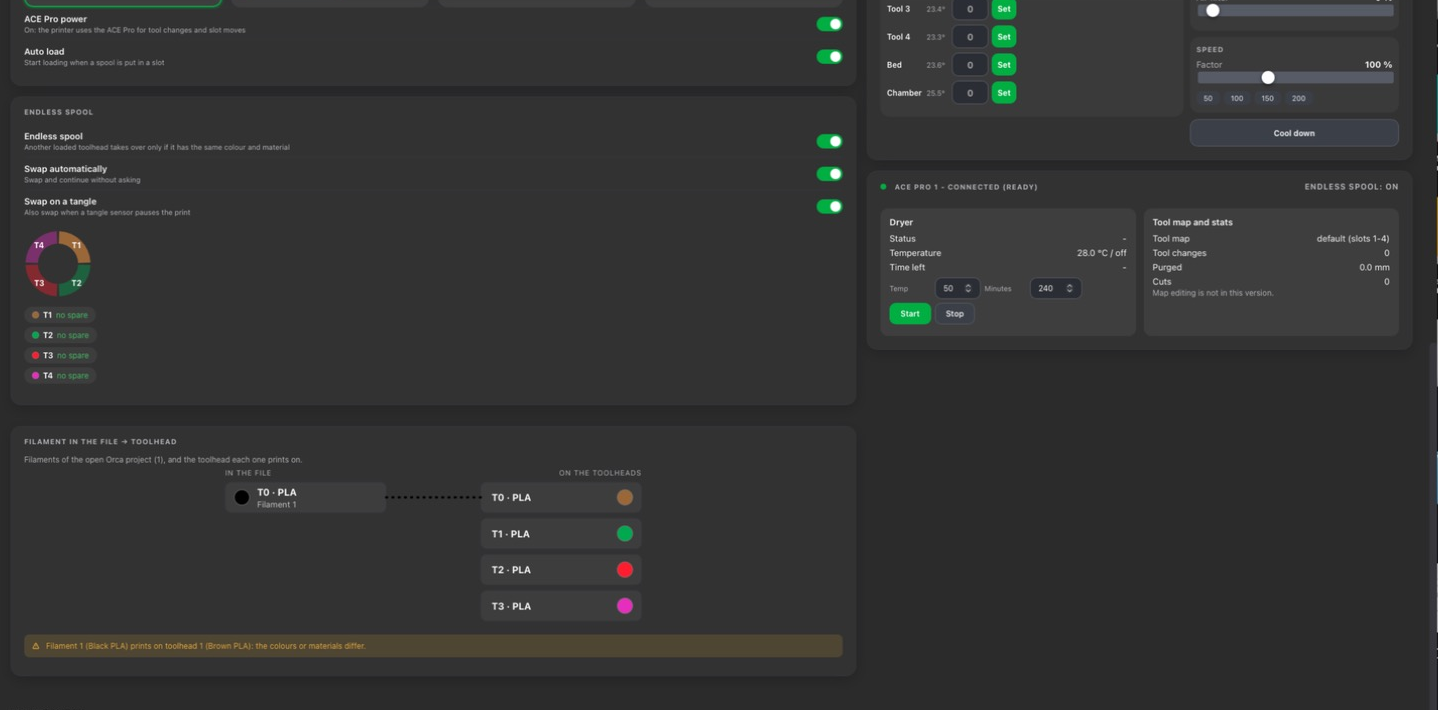
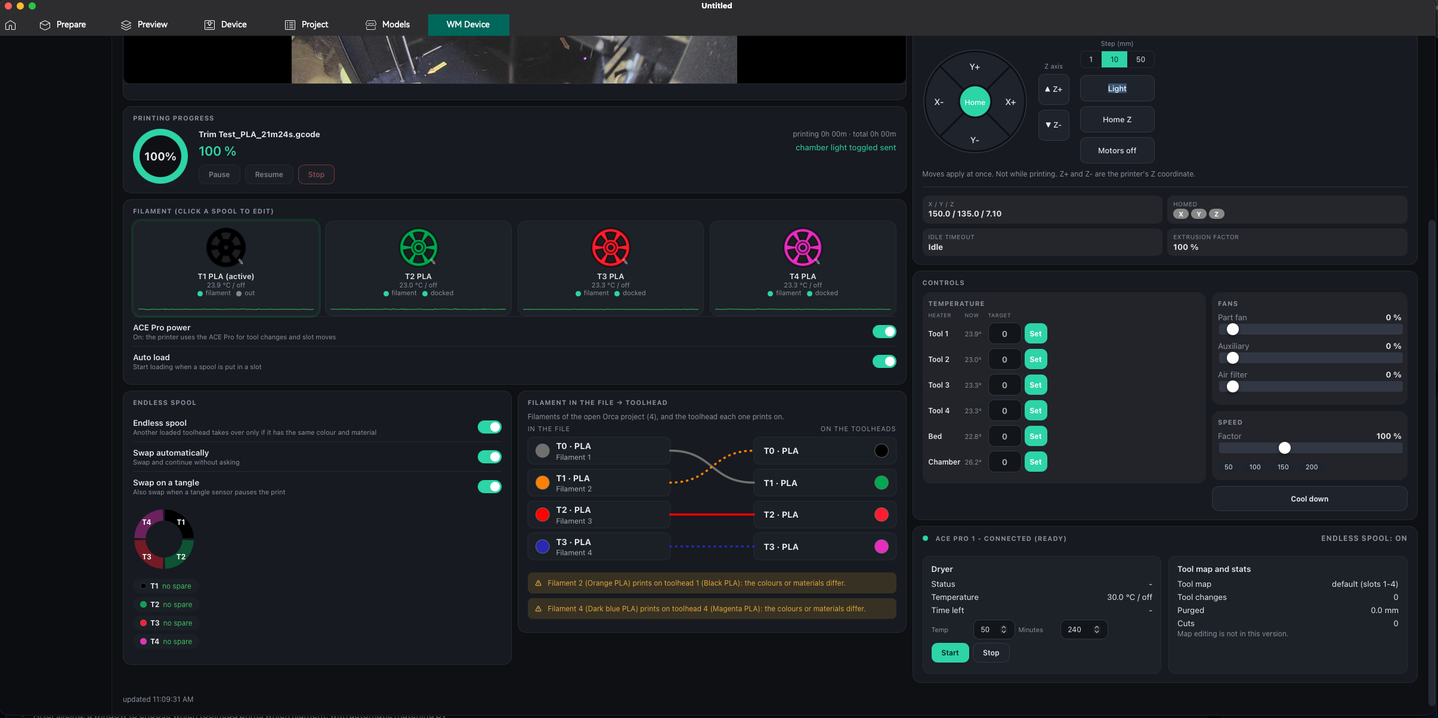
README: new Status, ACE/Endless spool and Files page pictures (addresses covered); old Filament in the file picture removed (it is part of the new one)
Claude-Session: https://claude.ai/code/session_0188cJYRY7ZSqCguqTL3TYPE

diff --git a/README.md b/README.md
@@ -159,7 +159,7 @@ The printer must run **Moonraker** (port 7125, the default). The plugin adds `:7
 
 <img src="docs/img/device-tab.png" alt="WM Device tab in OrcaSlicer: camera, progress, toolheads, control and move panels" width="900">
 
-*The Status page of the WM Device tab (printer addresses covered).*
+*The Status page of the WM Device tab, v0.27 (printer addresses covered).*
 
 ### 2.1 The pages
 
@@ -169,6 +169,10 @@ The printer must run **Moonraker** (port 7125, the default). The plugin adds `:7
 | **Files** | The gcode files on the printer. Start one with **Print** (asks first). Tick files and press **Delete** to remove them (asks first) |
 | **History** | The print history with state and time |
 | **Messages** | Errors and warnings of the printer's console, grouped |
+
+<img src="docs/img/files-page.png" alt="WM Device tab, Files page: gcode files with part picture, filament spools, Print buttons, tick boxes and the red Delete button" width="900">
+
+*The Files page: each file with its picture, filament colours, weight and a **Print** button; tick boxes and the red **Delete** at the top.*
 
 ### 2.2 The top bar
 
@@ -207,9 +211,7 @@ Lower on the Status page, the tab shows two cards. They appear only when the pri
 
 ### 2.5 Filament in the file → toolhead
 
-<img src="docs/img/filament-in-file-view.png" alt="Filament in the file to toolhead view with a warning that colours differ" width="760">
-
-A read-only picture of the filaments of the project open in Orca: on the left the filaments of the file ("in the file"), on the right the four toolheads ("on the toolheads"), with a line between them. A **solid line** means the filament of the file matches the spool on that toolhead, a **dotted line** means it does not (other colour or material). A yellow note under it says when a filament of the file is on a toolhead with another colour or material (here *Filament 1 (Black PLA) prints on toolhead 1 (Brown PLA)*). Nothing is sent from this view; you choose the real map in the window after slicing, see [3](#3-process-settings-the-wm-tool-map-step).
+The lower part of the picture above (the **Filament in the file → toolhead** card) is a read-only picture of the filaments of the project open in Orca: on the left the filaments of the file ("in the file"), on the right the four toolheads ("on the toolheads"), with a line between them. A **solid line** means the filament of the file matches the spool on that toolhead, a **dotted line** means it does not (other colour or material). A yellow note under it says when a filament of the file is on a toolhead with another colour or material (here *Filament 1 (Black PLA) prints on toolhead 1 (Brown PLA)*). Nothing is sent from this view; you choose the real map in the window after slicing, see [3](#3-process-settings-the-wm-tool-map-step).
 
 ## 3. Process settings: the WM Tool Map step
 
